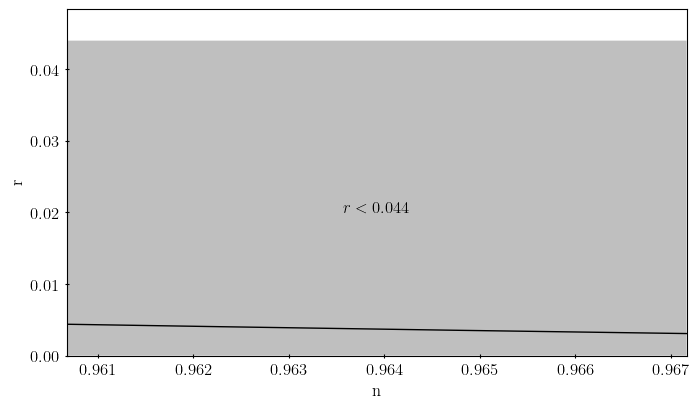
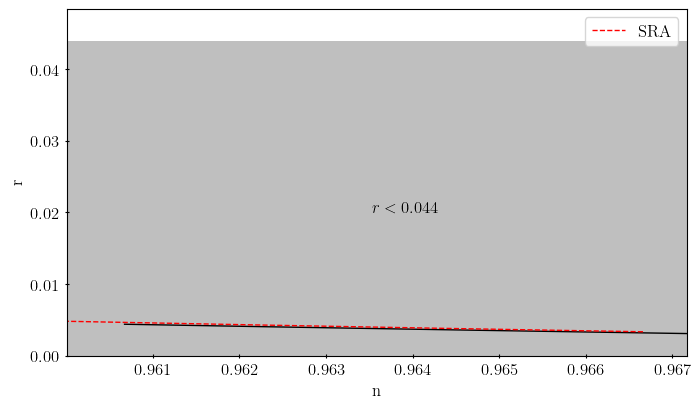
Added SRA to figures for Starobinsky

diff --git a/project-3/inflation.py b/project-3/inflation.py
@@ -72,9 +72,11 @@ class InflationModel:
 		self.h = h; self.psi = psi; self.h2 = h**2
 		self.dpsi = dpsi; self.ln_a_ai = ln_a_ai; self.tau = tau
 
-		self.psi_SRA = self.psi_i - 1 / (4 * np.pi * self.psi_i) * tau  
-		self.h2_SRA = (1 - 1 / (4 * np.pi * self.psi_i**2) * tau)**2
-		self.ln_a_ai_SRA = tau - 1 / (8 * np.pi * self.psi_i**2) * tau**2
+		if self.name == 'phi2_':
+
+			self.psi_SRA = self.psi_i - 1 / (4 * np.pi * self.psi_i) * tau  
+			self.h2_SRA = (1 - 1 / (4 * np.pi * self.psi_i**2) * tau)**2
+			self.ln_a_ai_SRA = tau - 1 / (8 * np.pi * self.psi_i**2) * tau**2
 
 	def plot_solutions(self, compare_to_SRA=False, tight_layout=False, xlim=None):
 
@@ -259,16 +261,35 @@ class InflationModel:
 
 		N_left = self.N_tot - self.ln_a_ai[idx]
 
+		if self.name == 'starobinsky_':
+
+			y = - np.sqrt(16 * np.pi / 3) * self.psi
+
+			N_SRA = 3/4 * np.exp(-y)
+			epsilon_SRA = 3 / (4 * N_SRA**2)
+
+			idx_SRA = epsilon_SRA <= 1
+
+			N_tot_SRA = N_SRA[idx_SRA][0]
+
+			eta_SRA = - 1/N_SRA
+
+			print(f'\nN_tot from SRA: {N_tot_SRA:.3f}')
+
 		fig, ax = plt.subplots()
 
 		ax.plot(N_left, self.epsilon[idx], label=r'$\epsilon$')
+
 		ax.set_xscale('log')
 		ax.set_xlabel(r'Remainding $e$-folds of inflation')
 		ax.set_ylabel(r'$\epsilon$')
 
-		if self.eta is not None:
+		if self.eta is not None and self.name == 'starobinsky_':
 
+			ax.plot(N_SRA[idx_SRA], epsilon_SRA[idx_SRA], ls='dashed', color='black', label=r'$\epsilon_\mathrm{SRA}$')
 			ax.plot(N_left, self.eta[idx], label=r'$\eta$')
+			ax.plot(N_SRA[idx_SRA], eta_SRA[idx_SRA], ls='dashed', color='red', label=r'$\eta_\mathrm{SRA}$')
+
 			ax.legend()
 
 		ax.invert_xaxis()
@@ -298,11 +319,27 @@ class InflationModel:
 		fig, ax = plt.subplots()
 
 		ax.plot(n, r)
-		ax.fill_between(n, 0.044, alpha=0.25)
+
+		if self.name == 'starobinsky_':
+
+			y = - np.sqrt(16 * np.pi / 3) * self.psi
+
+			N_SRA = 3/4 * np.exp(-y)
+			N_idx_SRA = np.logical_and(N_SRA >= 50, N_SRA <= 60)
+
+			n_SRA = 1 - 2 / N_SRA[N_idx_SRA]
+			r_SRA = 12 / N_SRA[N_idx_SRA]**2
+
+			ax.plot(n_SRA, r_SRA, ls='dashed', label='SRA')
+			ax.legend()
+
+		fill_x = n if self.name == 'phi2_' else [np.min([np.min(n), np.min(n_SRA)]), np.max([np.max(n), np.max(n_SRA)])]
+
+		ax.fill_between(fill_x, 0.044, alpha=0.25)
 		ax.text(x_text, 0.02, r'$r<0.044$', ha='center')
 		ax.set_xlabel('n')
 		ax.set_ylabel('r')
-		ax.set_xlim([np.min(n), np.max(n)])
+		ax.set_xlim([np.min(fill_x), np.max(fill_x)])
 		ax.set_ylim([0, 1.1 * y_max])
 
 		fig.savefig('figures/' + self.name + 'n-r-plane.pdf', bbox_inches='tight')
